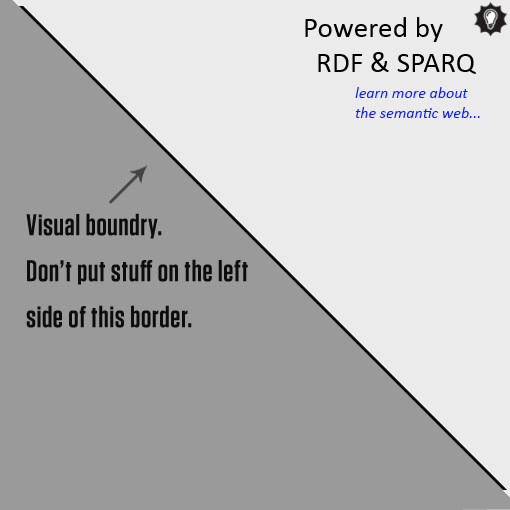
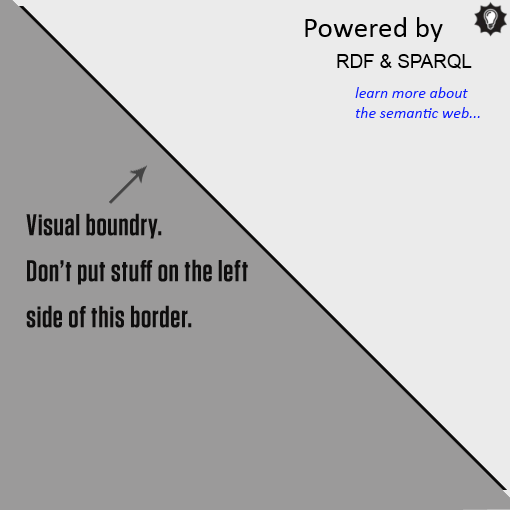
updates to the typos

Changed region(s): [[0.6176, 0.0882, 0.9412, 0.1471]]

diff --git a/underthecover.html b/underthecover.html
@@ -54,22 +54,19 @@
       
       <!-- Begin values section -->
       <a name = "value" ></a>
-      <div class = "panel">
         <h3>The Value of <small>Linked Data</small></h3>
-        <p><b>A musical artist is more than a collection of text, pictures and binary audio or video streams online. </b>Central to his identity is his <i>story</i>, his <i>artistic techniques</i>, his <i>musical style</i> and <i>evolution over time</i>, pieces of context that gets <b>lost amid masses of scattered information online.</b></p>
-        <br>
-        <p>Linked data strings these pieces of context together into the unique identity of any given artist:</p> 
-        <ul class = "marginedList" id = "value">
-          <li>When we search for all singles from Ferry Corsten, it automatically returns the song “Out of the Blue” by System F, Corsten’s alias in the 1990’s.</p>
-          <li>It understands “that song by Luther Vandross” could mean it’s written by him, performed by him, or both.</p>
-          <li>Linked data delivers the context behind the artist, granular enough that each album or single could have its individual stories, yet structured enough to paint a holistic picture of an artist, or genre through time.</li>
-        </ul>
-        <br>
-        <p>At LinkedInsight, we utilized linked data to design a highly usable and interactive timeline curated to your musical interests. </p>
-        <br>
-        <p><blockquote><i>A walk down memory lane, sometimes sprinkled with a few surprising insights.</i></blockquote></p>
         
-      </div>
+        <div class = "row"  >
+          <div class = "large-12 columns" >
+            <p>Linked data brings together disparate pieces of information:</p>
+            <ul class = "marginedList" >
+              <li>Providing more insight than traditional structured datasets</p>
+              <li>Accounts for complexity in representing our world as data</p>
+              <li>Provides additional context.</li>
+            </ul>
+          </div>
+        </div>
+        
       <hr>
       <!-- End values section -->
 
@@ -77,20 +74,10 @@
       <a name = "triples" ></a>
       <div id = "triples">
         <h3><small >Linked Data</small> Triples</h3>
-        <p>A RDF triple is a (1)subject-(2)predicate-(3)object expression, which is very similar to what it means in English:<br><br> 
-          <b>Subject: </b><br>
-          English - the thing we’re talking about<br>
-          RDF - this is the resource<br><br>
+        
+        <p>A triple is composed of a subject > predicate > object expression, which creates the foundation for linked data:<br><br> 
 
-          <b>Predicate: </b><br>
-          English - a term to describe or modify the subject<br>
-          RDF - used to denote relationships between the subject and the object<br><br>
-
-          <b>Object: </b><br>
-          English - the object is the thing that the verb, or predicate, is acting upon<br>
-          RDF - the “target” or “value” of the triple, which can be another resource, or just a literal value such as a number or word<br><br>
-        </p>
-        <div class = "row">
+          <div class = "row">
           <div class = "large-6 columns">
             <div class = "panel"><img src="images/TriplesExample.png"/></div>
             <h4><small>General Triple Diagram</small></h4>
@@ -100,6 +87,19 @@
             <h4><small>Musical Triple Diagram</small></h4>
           </div>
         </div>
+          <b>Subject: </b><br>
+          English - the thing we’re talking about<br>
+          RDF - a resource<br><br>
+
+          <b>Predicate: </b><br>
+          English - a term to describe or modify the subject<br>
+          RDF - relationship between the subject and the object<br><br>
+
+          <b>Object: </b><br>
+          English - the object is the thing that the verb, or predicate, is acting upon<br>
+          RDF - “target” resource or “value” (such as a word, number, or date)<br><br>
+        </p>
+        
       </div>
       <br><hr>
       <!-- End Triples section -->
@@ -108,7 +108,7 @@
       <a name = "linkgraph" ></a>
       <div  id = "linkgraph">
         <h3><small>Linked Data</small> Graphs</h3>
-        <p>A simple linked data graph is just a set of similar inter-related triples. A more complicated linked data graph connects groups of different triples with different relationships. A graph is, thus, a collection of triples.
+        <p>A collection of triples:
         <br><br></p>
         <div class = "row">
           <div class = "large-6 columns">
@@ -128,14 +128,28 @@
       <a name = "ontology" ></a>
       <div id = "ontology">
         <h3 ><small >Linked Data</small> Ontologies</h3>
-        <p>An ontology is a structured representation of knowledge within a domain, similar to a schema. It's a set of rules that define relationships between pairs of concepts. It can be used to model a subject and extended to support reasoning about objects. Below is an example of a musical ontology:</p>
+        <p>An ontology is a defined structure. It is a set of rules that define relationships between pairs of concepts. It can be used to model a subject and extended to support reasoning about objects. Below is an example of a musical ontology:</p>
         <div class = "row">
         <!--   <div class = "large-6 columns">
             <div class = "panel"> </div>
             <a href="" >Copy Code</a>
           </div>
          -->
-          <div class = "large-12 columns">
+         <div class = "row">
+          <div class = "large-6 columns">
+           
+            <div class = "panel"><pre class="prettyprint">
+&lt;rdf:Description rdf:about=&quot;http://purl.org/ontology/mo/album&quot;&gt;
+  &lt;rdf:type rdf:resource=&quot;http://purl.org/ontology/mo/ReleaseType&quot;/&gt;
+  &lt;rdf:type rdf:resource=&quot;http://www.w3.org/2002/07/owl#Thing&quot;/&gt;
+  &lt;isDefinedBy xmlns=&quot;http://www.w3.org/2000/01/rdf-schema#&quot; rdf:datatype=&quot;http://www.w3.org/2001/XMLSchema#anyURI&quot;&gt; http://purl.org/ontology/mo/ &lt;/isDefinedBy&gt;
+  &lt;level xmlns=&quot;http://purl.org/ontology/mo/&quot;&gt;1&lt;/level&gt;
+  &lt;description xmlns=&quot;http://purl.org/dc/elements/1.1/&quot;&gt; One or more track issued together. This is a type of MusicalManifestation defined by the musical industry. &lt;/description&gt;
+  &lt;title xmlns=&quot;http://purl.org/dc/elements/1.1/&quot;&gt;album&lt;/title&gt;
+&lt;/rdf:Description&gt;</pre></div>
+            <a href="" >Copy Code</a>
+          </div>
+          <div class = "large-6 columns">
             <div class = "panel"><pre class="prettyprint">
 &lt;rdf:Description rdf:about=&quot;http://purl.org/ontology/mo/album&quot;&gt;
   &lt;rdf:type rdf:resource=&quot;http://purl.org/ontology/mo/ReleaseType&quot;/&gt;
@@ -147,6 +161,7 @@
 &lt;/rdf:Description&gt;</pre>
             </div>
             <a href="" >Copy Code</a>
+          </div>
           </div>
         </div>
       </div>
@@ -205,6 +220,35 @@ WHERE {
       <br><hr>
       <!-- End SPARQL section -->
 
+      <!-- Begin values section -->
+      <h3><small>Why not a SQL DB? Why</small> Linked Data?</h3>
+      
+      <br>
+      <p>LinkedInsight utilizes linked data to design a highly usable and interactive timeline curated to your musical interests. </p>
+      <br>
+
+      <div class = "row"  >
+        <div class = "large-12 columns">
+          <p><b>A musical artist is more than a collection of text, pictures and binary audio or video streams online. </b>Central to his identity is his <i>story</i>, his <i>artistic techniques</i>, his <i>musical style</i> and <i>evolution over time</i>, pieces of context that gets <b>lost amid masses of scattered information online.</b></p>
+          <br>
+          <p>Linked data strings these pieces of context together into the unique identity of any given artist:</p>
+          <ul class = "marginedList"  id = "value">
+            <li>It understands Ferry Corsten is also System F, and returns albums and singles for both aliases, broadening music discovery.</p>
+            <li>It provides highly relevant blurbs and rich links about the specific genre of a song, an album and an artist, and their evolution over time.</li>
+            <li>It's easily extensible to for enhanced musical discovery, allowing collaborators per song, related artists, music written, even other people with similar music tastes.</li>
+         </p>
+            
+          </ul>
+        </div>
+      </div>
+      
+      <p><blockquote><i>A walk down memory lane, sometimes sprinkled with a few surprising insights.</i></blockquote></p>
+    
+      <hr>
+      <!-- End values section -->
+
+
+
       <!-- Begin Learn more section -->
       <a name = "more"></a>
       <div class="panel" id = "more">
@@ -247,12 +291,8 @@ WHERE {
  
   <!-- At the bottom of your page but inside of the body tag -->
   <ol id="joyRideTipContent" class="joyride-list" data-joyride>
-    <li data-id="value" data-text="Next" data-options="tipLocation:right">
-      <h4>Take a Tour</h4>
-      <p>Read about the value of linked data applied to music</p>
-    </li>
     <li data-id="triples" data-text="Next" data-options="tipLocation:right">
-      <h4>First Stop: Triple</h4>
+      <h4>First Stop: Triples</h4>
       <p>The basic building block of linked data.</p>
     </li>
     <li data-id="linkgraph" data-button="Next" data-options="tipLocation:right;tipAnimation:fade">
@@ -262,6 +302,10 @@ WHERE {
     <li data-id="ontology" data-button="Next" data-options="tipLocation:right;tipAnimation:fade">
       <h4>Third Stop: Ontologies and More</h4>
       <p>More advanced topics relating to linked data.</p>
+    </li>
+    <li data-id="value" data-text="Next" data-options="tipLocation:right">
+      <h4>Fourth Stop:</h4>
+      <p>Read about the value of linked data applied to music.</p>
     </li>
     <li data-id="more" data-button="Next" data-options="tipLocation:right;tipAnimation:fade">
       <h4>Final Stop: Learn More</h4>
